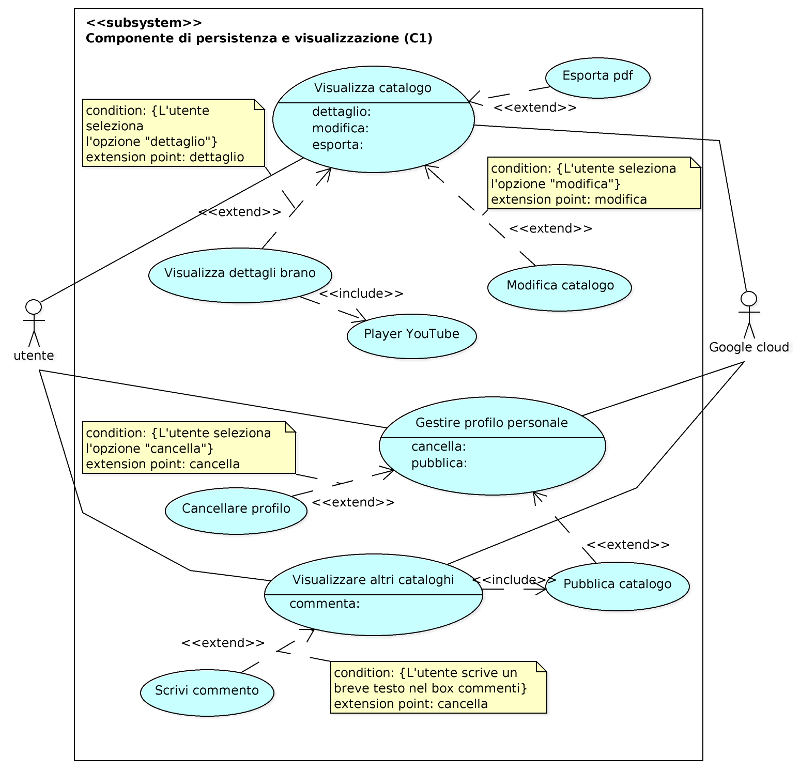
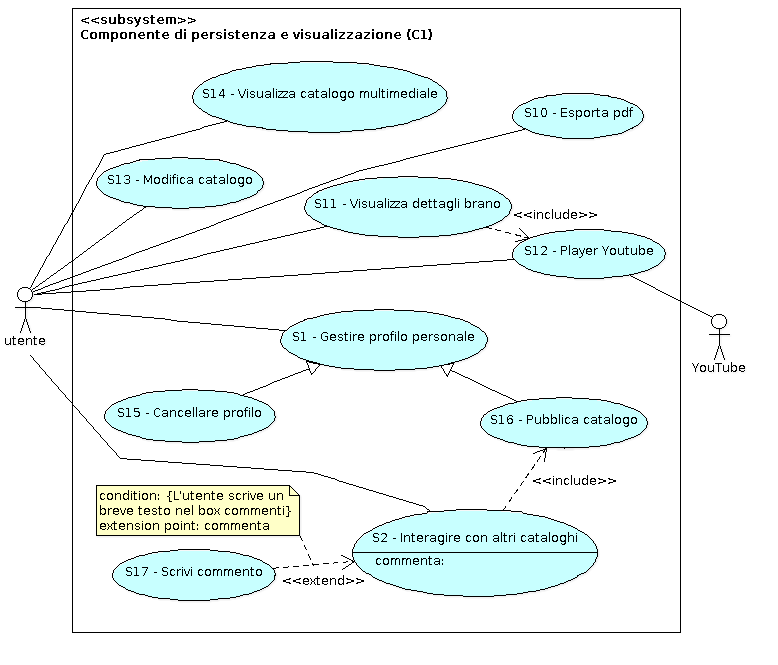
FIX - AnalisiDeiRequisiti.tex, UC2.png - Sistemato UC2. Fixes issue 34.

diff --git a/AnalisiDeiRequisiti.tex b/AnalisiDeiRequisiti.tex
@@ -301,19 +301,22 @@ NetMus tramite un browser. \\\\
 \newpage
 \vspace*{0.5cm}
 \bo{Use case UC2: Componente di persistenza e visualizzazione (C1)}\\\\
-\bo{Attori primari: } Utente, Google cloud (server + database). \\\\
-\bo{Pre-condizioni: } L'utente ha aperto l'applicazione da browser ed \`e
-autenticato. \\\\ 
+\bo{Attori primari: } Utente. \\\\
+\bo{Attori secondari: } YouTube. \\\\
+\bo{Pre-condizioni: } L'utente \`e connesso ad internet, accede al portale
+NetMus tramite un browser ed  \`e autenticato. \\\\ 
 \bo{Post-condizioni: } L'utente ha effettuato tutte le operazioni desiderate
 con successo. \\\\
 \bo{Scenario principale: } 
 \begin{enumerate}
   \item L'utente naviga all'interno del proprio catalogo musicale presente nel
-  database di NetMus, oppure all'interno di quello di un altro utente.
+  database di NetMus (S14), all'interno di quello di un altro utente
+  (S2), oppure nella pagina di gestione del proprio profilo personale (S1).
   \item L'utente seleziona le opzioni che preferisce, e fa alcune operazioni
-  consentite.
+  consentite (S13, S10, S11, S12).
   \item Tutti i dati richiesti dall'utente gli vengono forniti in tempo utile
-  dal server (Google cloud).
+  dal server o, nel caso venga chiesta la riproduzione del brano (S12), dal
+  servizio esterno YouTube.
 \end{enumerate}
 \bo{Scenari secondari: }
 \begin{itemize}
@@ -324,12 +327,14 @@ con successo. \\\\
     ristabilita. I dati che erano stati aggiornati prima del verificarsi del
     problema sono gi\`a stati salvati.
   \end{enumerate}
-  \item L'utente cerca di accedere ad un altro profilo senza aver reso pubblico
-  il proprio.
+  \item L'utente cerca di accedere ad un altro catalogo (S2) senza aver reso
+  pubblico il proprio (S16).
   \begin {enumerate}
-    \item Viene chiesto all'utente se vuole pubblicare la propria libreria.
-    \item In caso affermativo l'utente pu\`o procede a visualizzare altri profili,
-    altrimenti gli viene negato l'accesso e viene rimandato alla propria pagina.
+    \item Viene chiesto all'utente se vuole pubblicare la propria libreria
+    (S16).
+    \item In caso affermativo l'utente pu\`o procede a visualizzare altri
+    cataloghi (S2), altrimenti gli viene negato l'accesso e viene rimandato alla
+    propria pagina (S14).
   \end{enumerate}
 \end{itemize}
 \newpage
